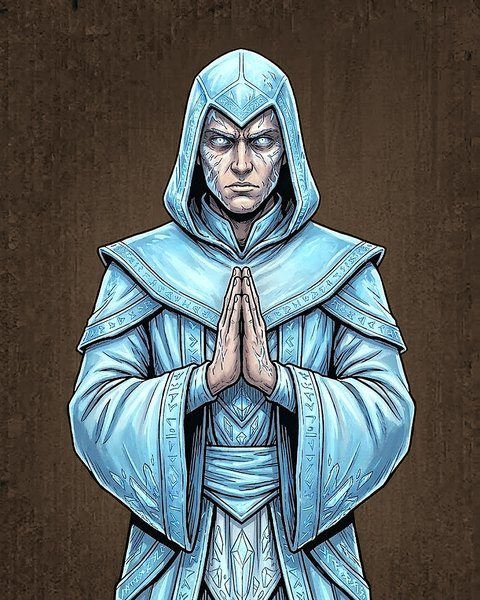
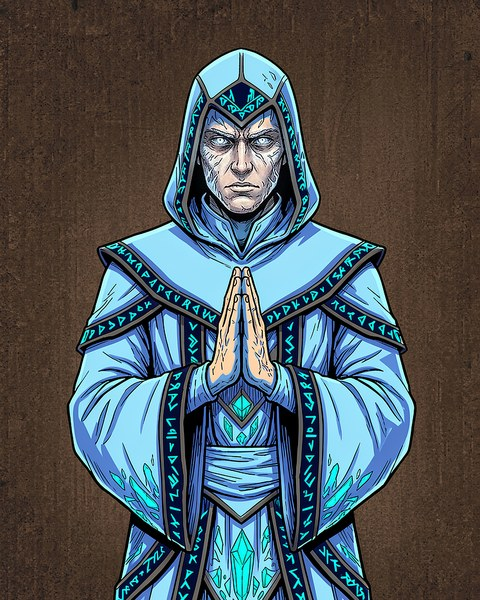
Портреты с чёткими рунами: Исс, Ксаар, Сайрит, Фелла заменены, Хельдрим добавлен в диалоги и бестиарий
Claude-Session: https://claude.ai/code/session_0125GU6JKc2XdXud3Rnbd4dN

diff --git a/src/bestiary.ts b/src/bestiary.ts
@@ -221,7 +221,7 @@ export interface BestiaryCharacterGroup {
   characters: BestiaryCharacter[];
 }
 
-/** Тексты — по своду лора (docs/lore/lore-bible.md) и главам кампании. Без портрета в игре Хельдрим, Бо-Рок и Мал'кеш-демон — их добавить, когда портреты утверждены */
+/** Тексты — по своду лора (docs/lore/lore-bible.md) и главам кампании. Без портрета в игре Мал'кеш-демон — добавить, когда портреты утверждены */
 export const BESTIARY_CHARACTERS: BestiaryCharacterGroup[] = [
   {
     title: 'Экспедиция людей',
@@ -328,6 +328,12 @@ export const BESTIARY_CHARACTERS: BestiaryCharacterGroup[] = [
         role: 'Пленный неофит культа',
         portrait: 'iss',
         lore: ['Культист, попавший в плен. Объясняет, что культ звал демонов, чтобы подчинить их, но цепь вышла коротка. Просит оставить его при хронисте: плена совет ему не простит.'],
+      },
+      {
+        name: 'Хельдрим',
+        role: 'Ледяной жрец, один из совета',
+        portrait: 'heldrim',
+        lore: ['Правит частью земель культа Ледяных пустошей. Один из совета жрецов: через него совет говорил с Калленом у алтаря. Не первый и не последний: его место займут.'],
       },
       {
         name: 'Мал’кеш',

diff --git a/src/campaign/portraits.ts b/src/campaign/portraits.ts
@@ -52,6 +52,7 @@ export const LEGACY_PORTRAITS: Record<string, string> = {
   Корх: 'korh',
   Ксаар: 'xaar',
   Исс: 'iss',
+  Хельдрим: 'heldrim',
   'Бо-Рок': 'borok',
   "Мал'кеш": 'malkesh',
 };
